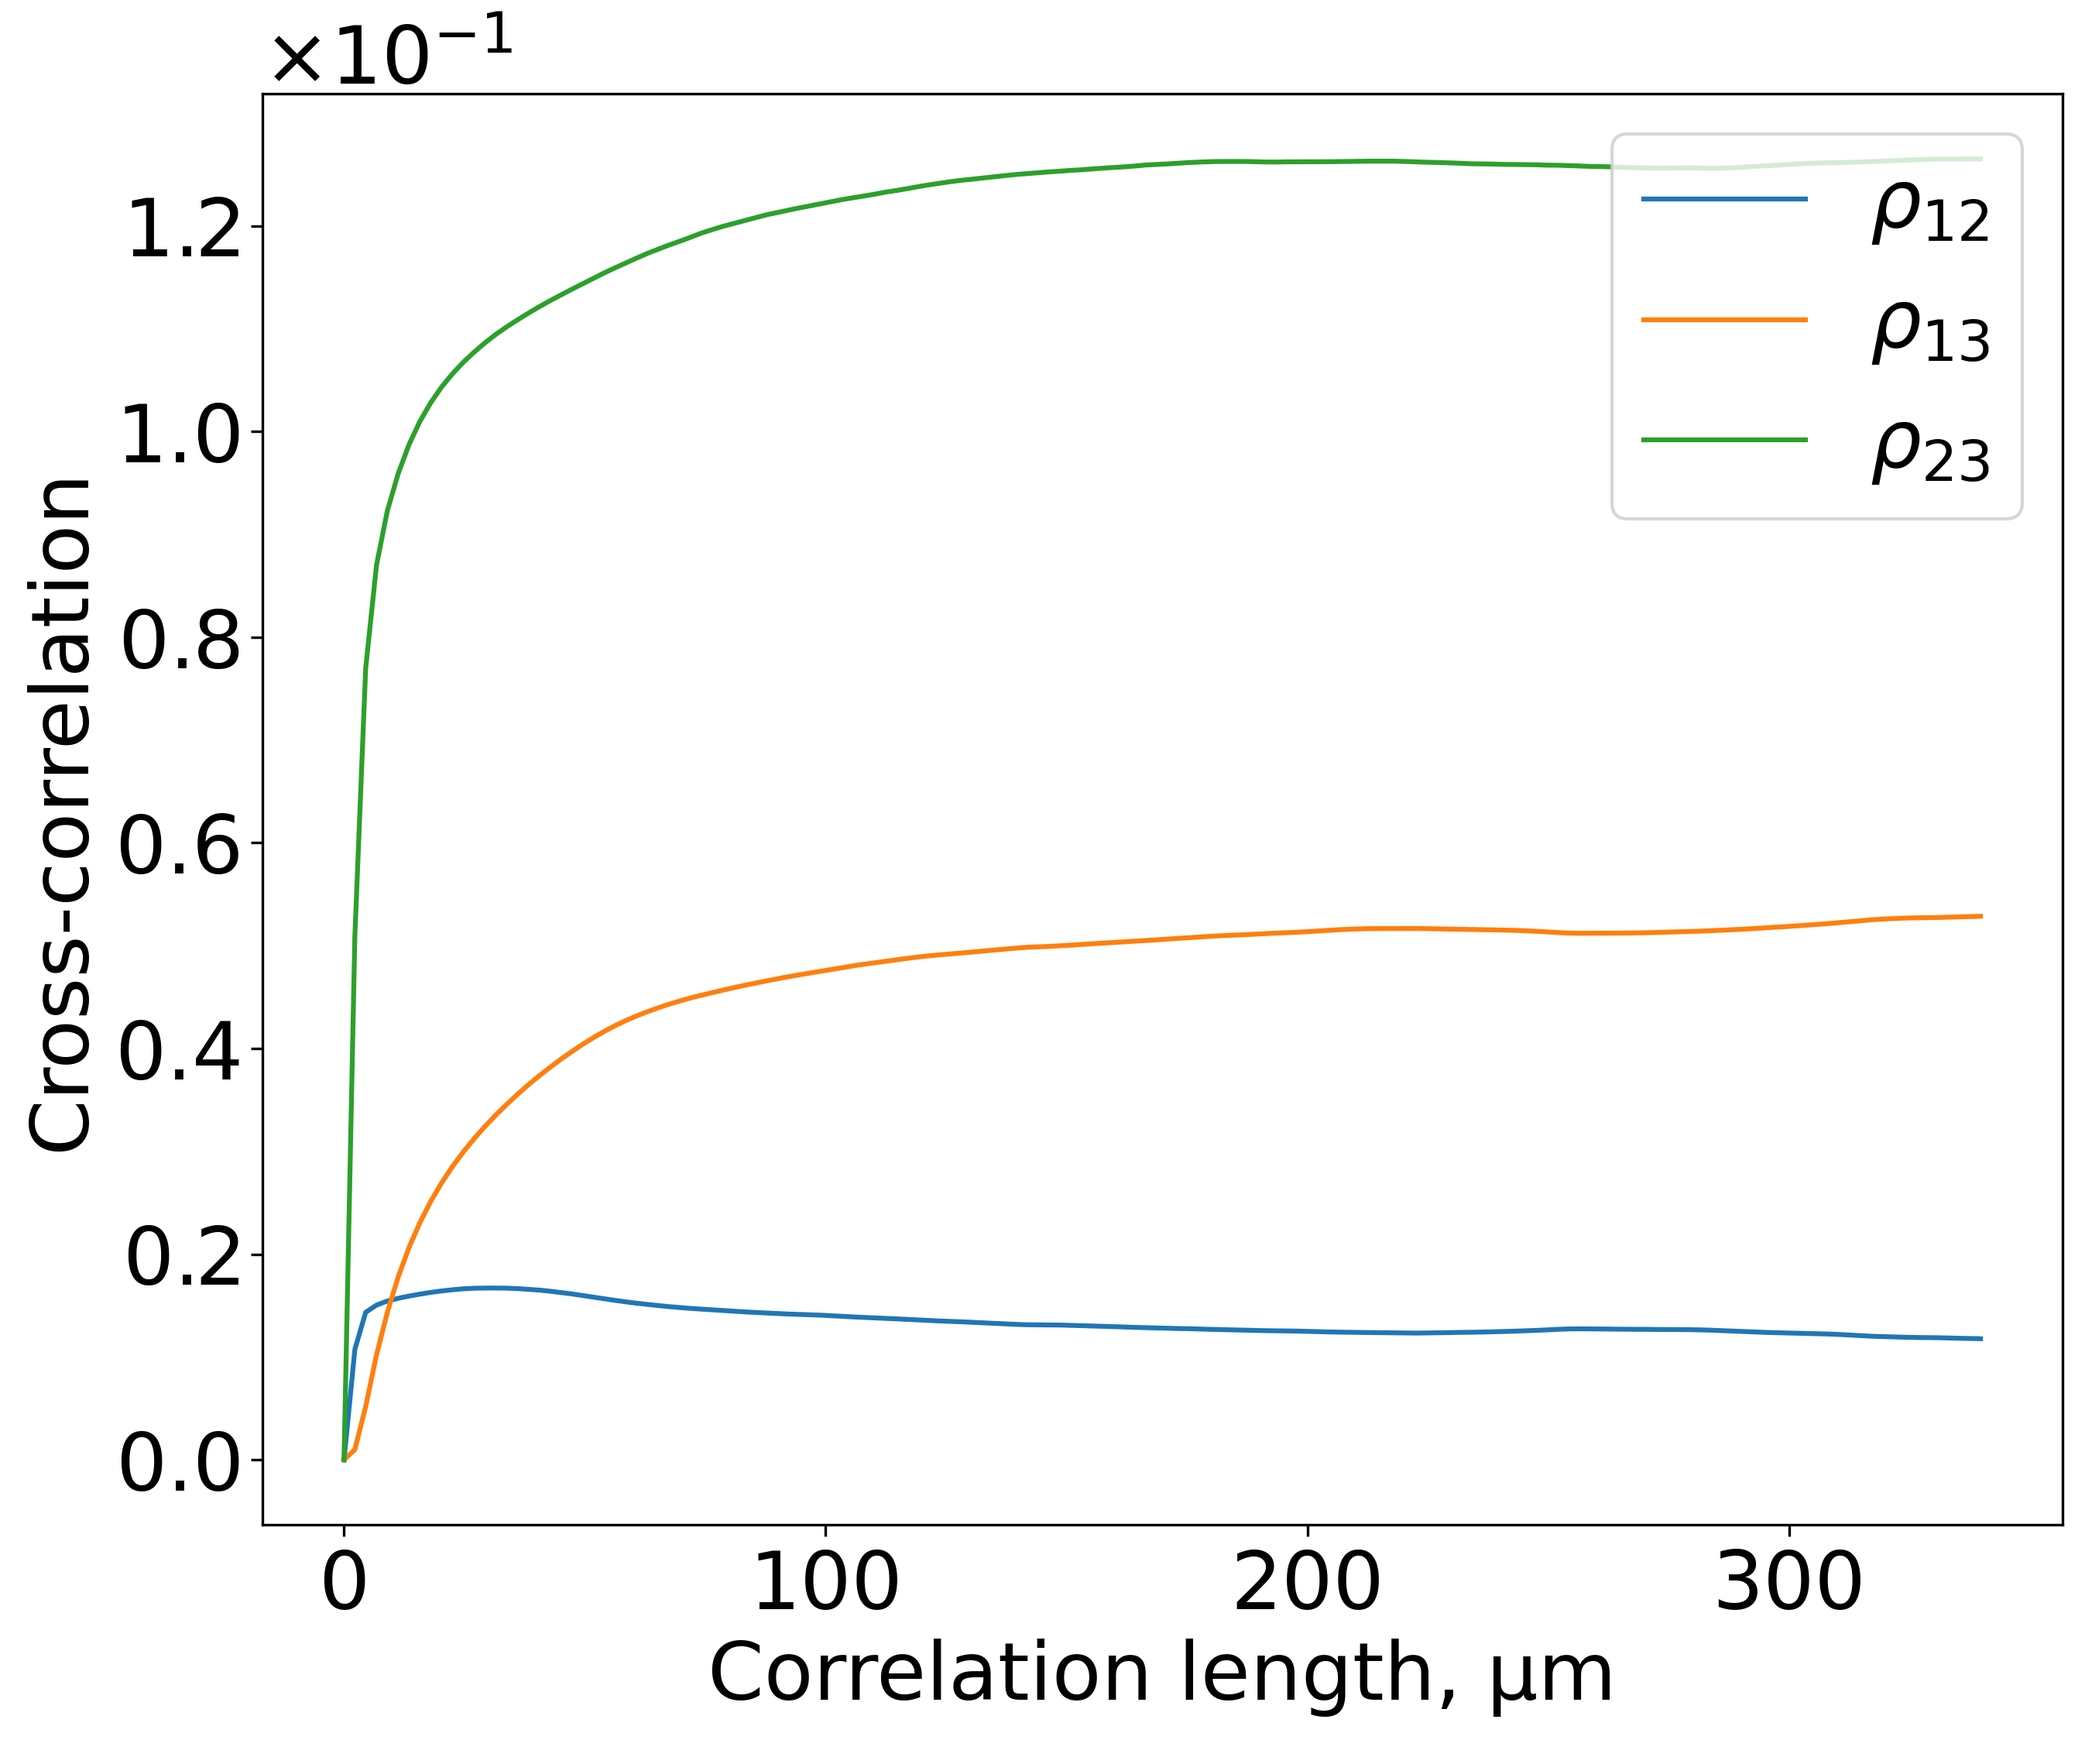
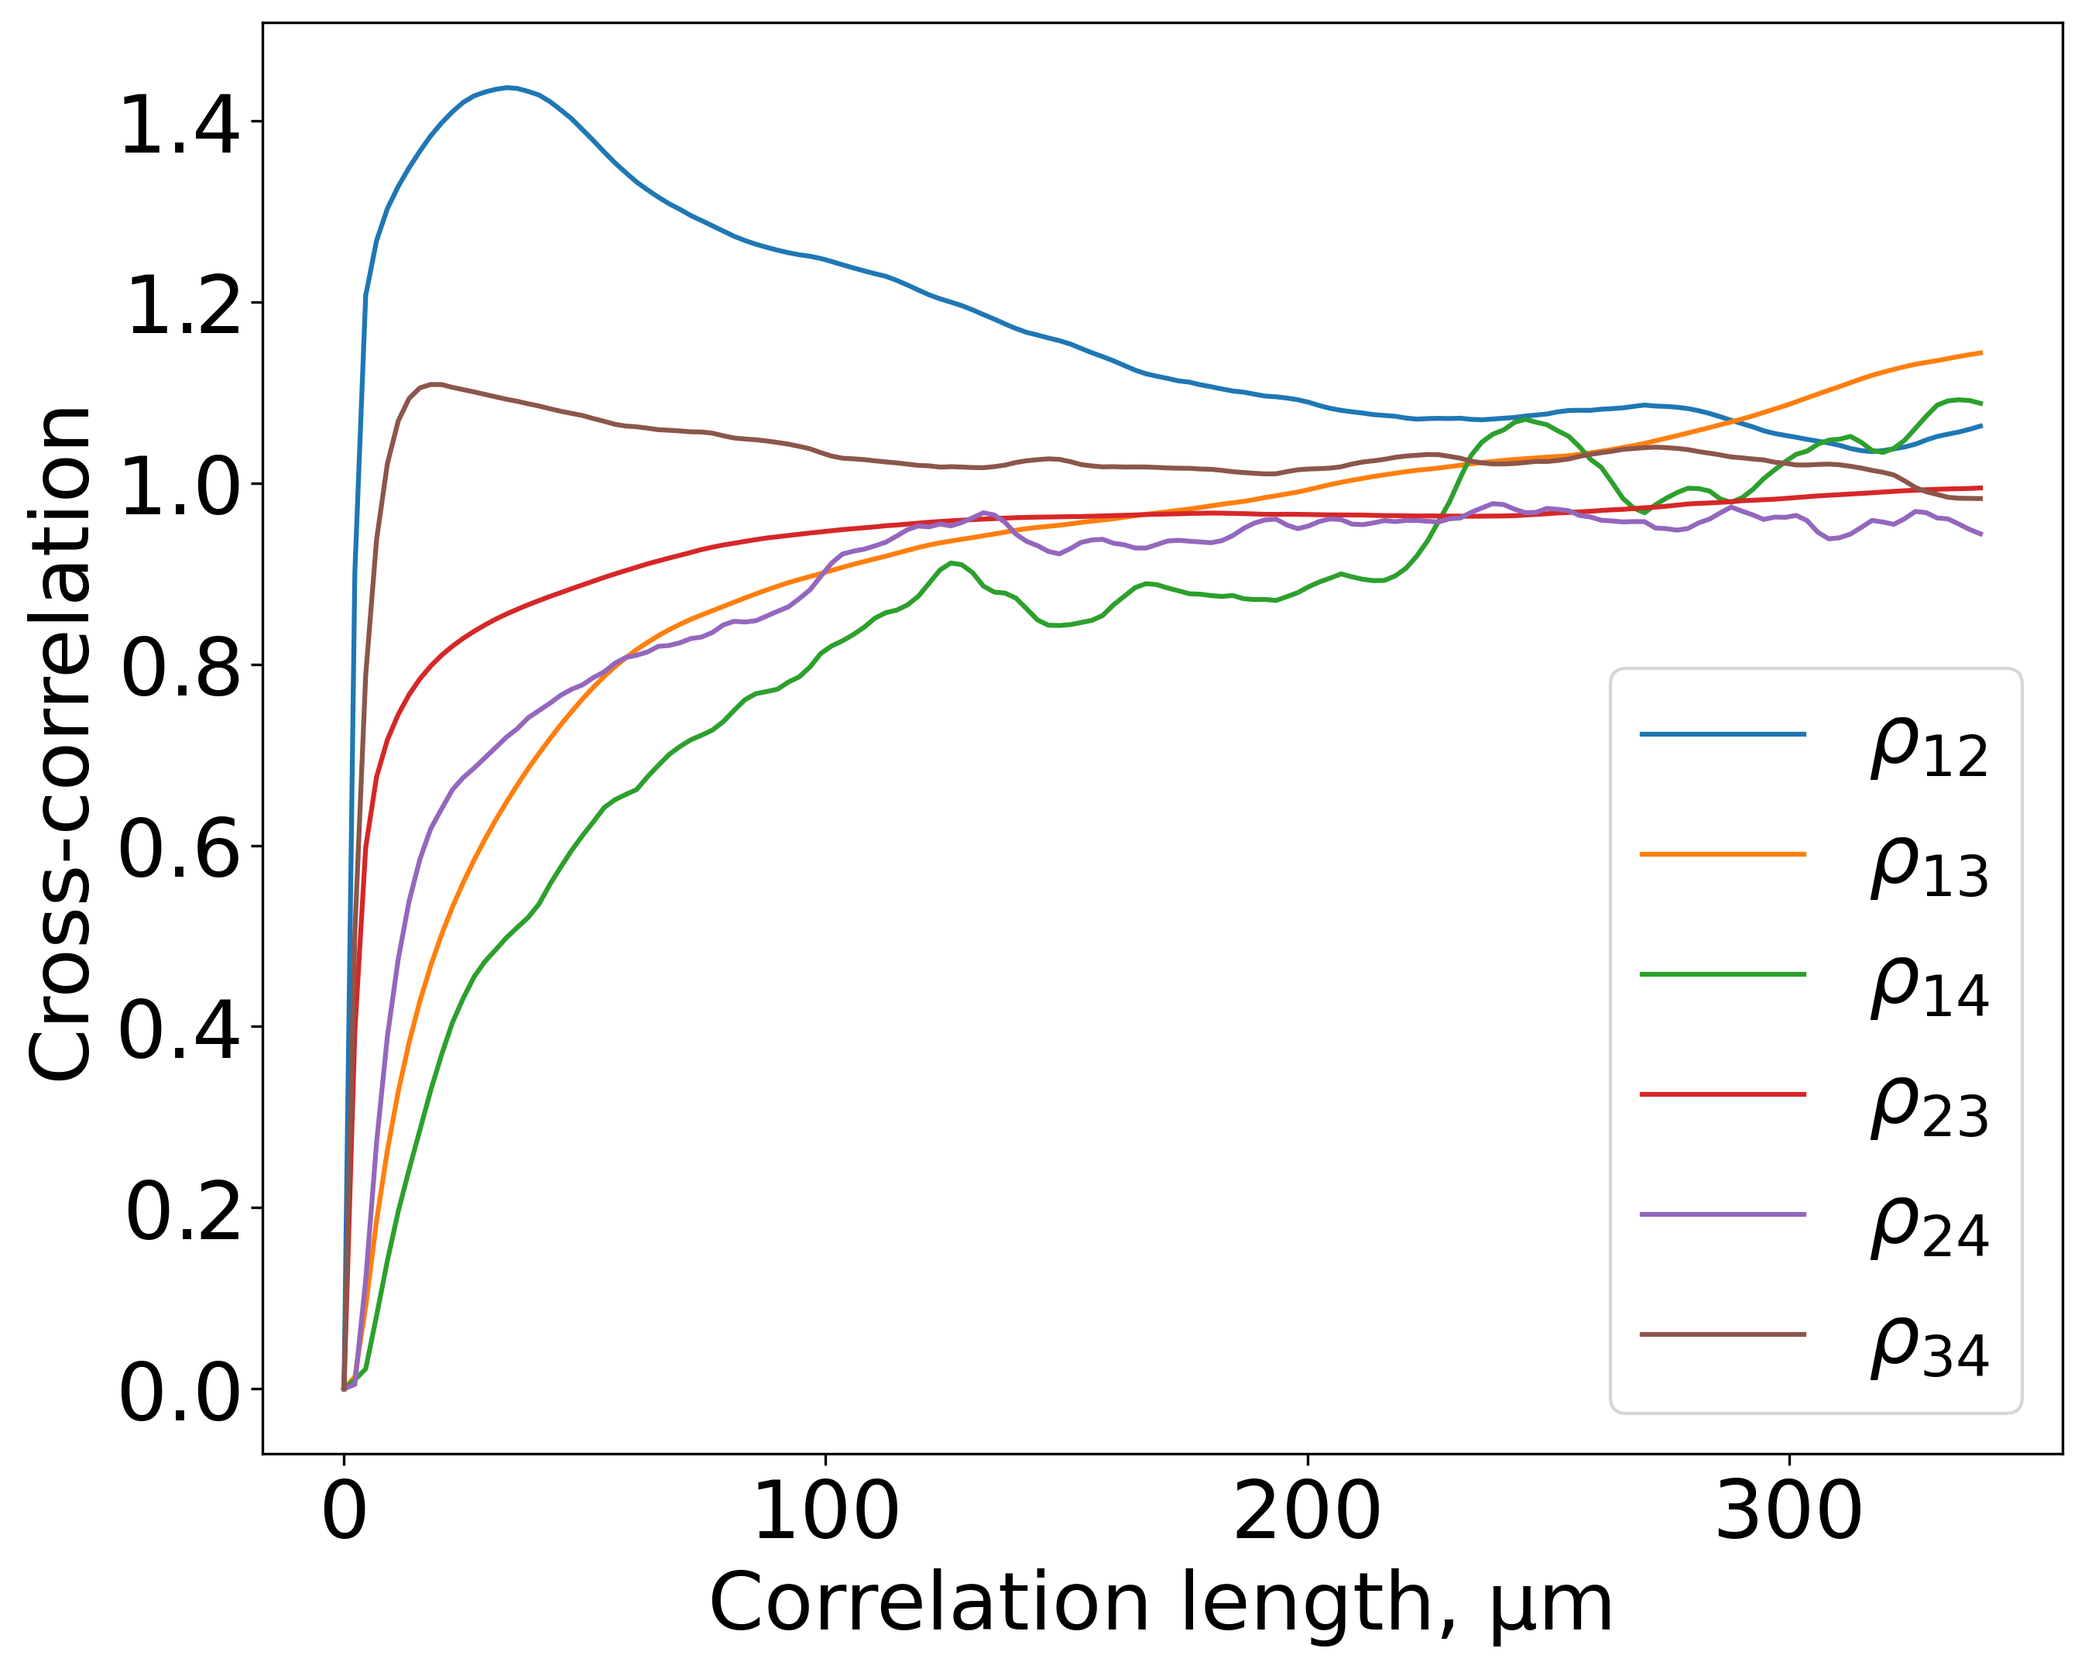
Normalize cross-correlations

diff --git a/samples/multiphase.py b/samples/multiphase.py
@@ -3,7 +3,7 @@
 import numpy as np
 import matplotlib.pyplot as plt
 
-pairs = [(1, 2), (1, 3), (2, 3)]
+pairs = [(1, 2), (1, 3), (1, 4), (2, 3), (2, 4), (3, 4)]
 
 plt.figure(figsize = (10, 8), dpi = 300)
 plt.rc('font', size = 25)
@@ -14,7 +14,7 @@ for pair in pairs:
     xs = np.arange(0, data.size) * 2.25
     plt.plot(xs, data)
 
-plt.legend(list(map(lambda x: r'$\rho_{%i%i}$' % x, pairs)), loc = 1)
+plt.legend(list(map(lambda x: r'$\rho_{%i%i}$' % x, pairs)))
 plt.xlabel('Correlation length, μm')
 plt.ylabel('Cross-correlation')
 plt.ticklabel_format(axis = "y", scilimits = (0, 0), useMathText = True)

diff --git a/paper-correlations.tex b/paper-correlations.tex
@@ -905,7 +905,8 @@ seen on \cref{fig:real-xct} and correlation functions of SEM images are on
   \includegraphics[width=0.45\linewidth]{samples/multiphase.png}
   \includegraphics[width=0.45\linewidth]{samples/multiphase-cc.png}
   \caption[]{Cross-correlation functions for multiphase sample (soil) which has
-    4 distinct phases, labeled as 1-4.}
+    4 distinct phases, labeled as 1-4. Each function $\rho_{ij}$ is normalized
+    by division by $\rho_{ii}(0) \rho_{jj}(0)$.}
   \label{fig:real-multiphase}
 \end{figure}
 
